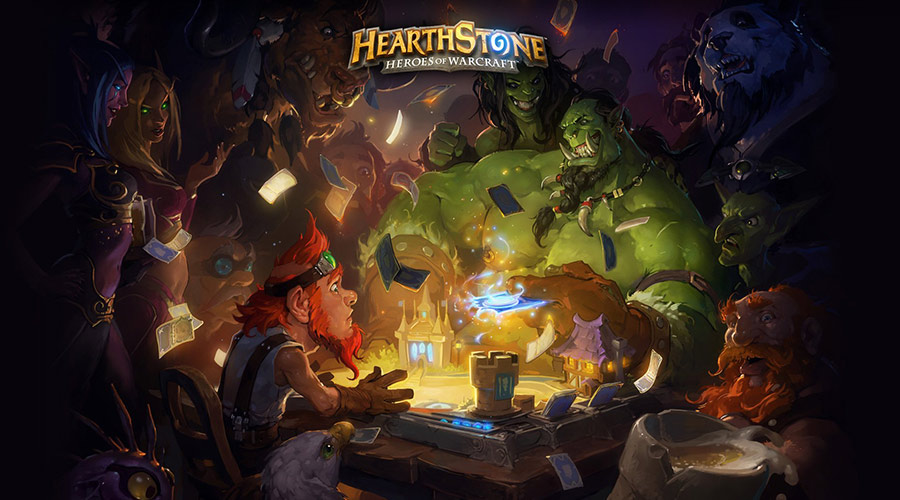
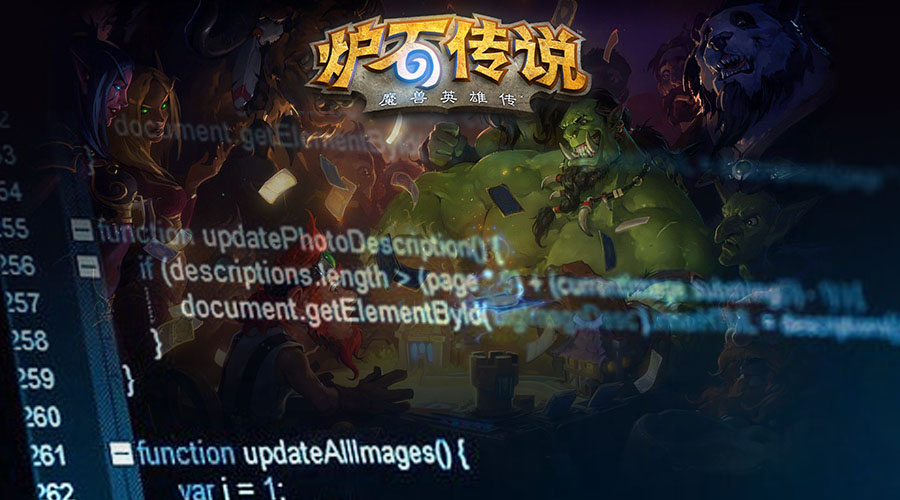
fix hearthstone post image

diff --git a/menu/writing.html b/menu/writing.html
@@ -12,7 +12,7 @@ title: Writing
         <!-- show thumb image -->
 
         <a href="{{ site.github.url }}{{ post.url }}" class="index-anchor">
-          {% if post.image.path != blank and post.image.feature!=blank %}
+          {% if post.image.feature %}
           <img class="thumb" src="{{ site.github.url }}/assets/img/{{ post.image.path }}/{{ post.image.feature }}">
           {% else %}
           <img class="thumb" src="{{site.baseurl}}/reading/assets/thumb/default.png" alt="{{site.title}}">

diff --git a/_posts/2014-09-22-hearthstone-3.md b/_posts/2014-09-22-hearthstone-3.md
@@ -4,6 +4,11 @@ title: "《炉石传说》架构设计赏析(3)：Gameplay初探"
 author: "燕良"
 categories: gamedev
 tags: [Hearthstone, Game]
+image:
+  path: hearthstone
+  feature: cover.jpg
+  credit: "Blizzard"
+  creditlink: "http://hs.blizzard.cn"
 brief: "经过前面两篇文章的分析，我们对炉石的代码已经不陌生了，接下来我初步尝试分析其游戏逻辑代码。"
 ---
 

diff --git a/_posts/2014-09-13-hearthstone-2.md b/_posts/2014-09-13-hearthstone-2.md
@@ -4,6 +4,11 @@ title: "《炉石传说》架构设计赏析(2)：Scene管理"
 author: "燕良"
 categories: gamedev
 tags: [Hearthstone, Game]
+image:
+  path: hearthstone
+  feature: cover.jpg
+  credit: "Blizzard"
+  creditlink: "http://hs.blizzard.cn"
 brief: "分析一下炉石这款游戏中一共有哪些Scene，他们各自负责什么，以及它内部的逻辑、UI的处理方式。"
 ---
 

diff --git a/_posts/2014-09-29-hearthstone-4.md b/_posts/2014-09-29-hearthstone-4.md
@@ -4,6 +4,11 @@ title: "《炉石传说》架构设计赏析(4)：Asset管理"
 author: "燕良"
 categories: gamedev
 tags: [Hearthstone, Game]
+image:
+  path: hearthstone
+  feature: cover.jpg
+  credit: "Blizzard"
+  creditlink: "http://hs.blizzard.cn"
 brief: "分析《炉石传说》的AssetBundle的管理机制。"
 ---
 
